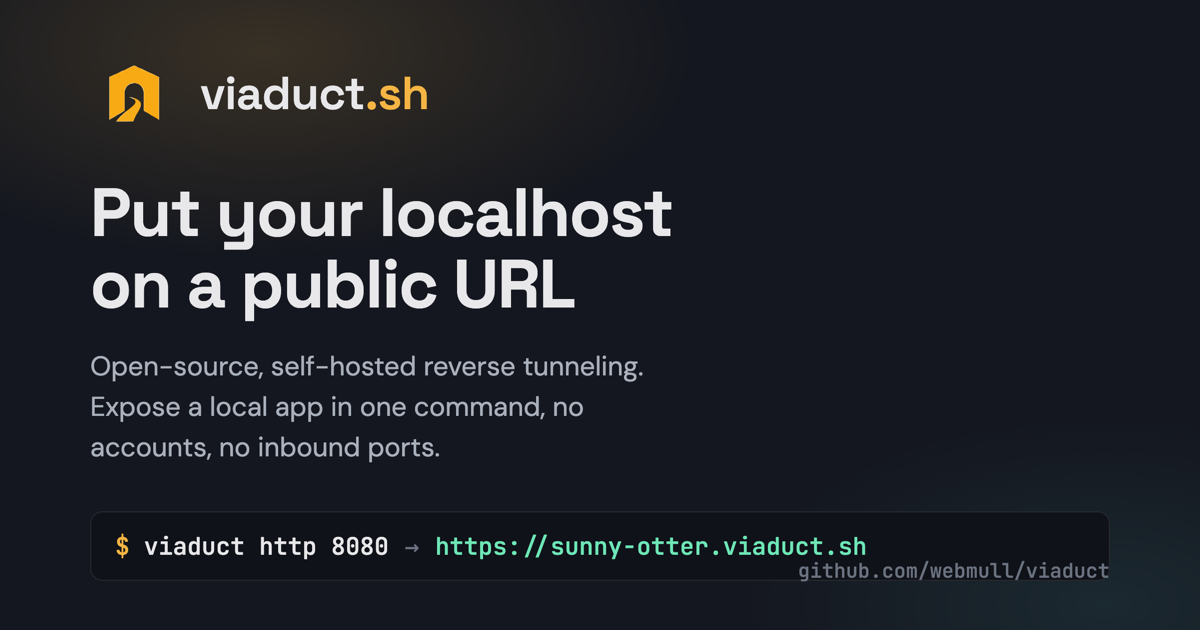
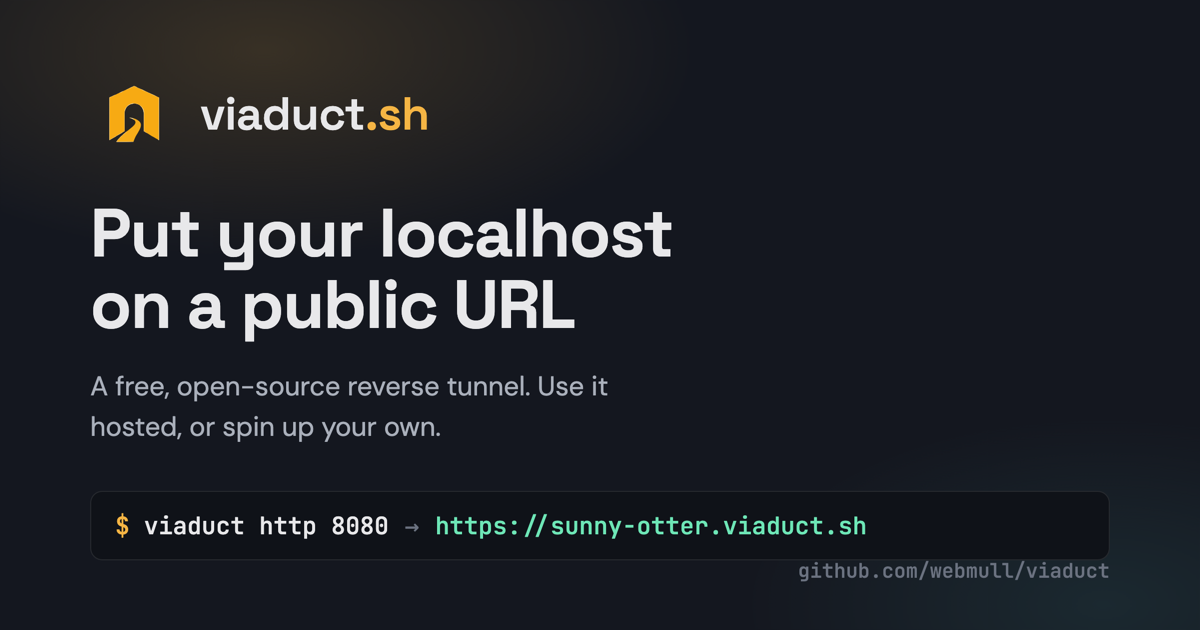
site: clarify the free hosted service + open source + self-host message across hero/install/deploy/open-source/meta and the social card; add a Terms & fair use page (/terms/), linked in footers

diff --git a/site/terms/index.html b/site/terms/index.html
@@ -1,0 +1,119 @@
+<!doctype html>
+<html lang="en">
+<head>
+  <meta charset="utf-8" />
+  <meta name="viewport" content="width=device-width, initial-scale=1" />
+  <link rel="icon" type="image/svg+xml" href="/favicon.svg" />
+  <link rel="mask-icon" href="/favicon.svg" color="#f5b544" />
+  <link rel="apple-touch-icon" href="/apple-touch-icon.png" />
+  <link rel="preconnect" href="https://fonts.googleapis.com" />
+  <link rel="preconnect" href="https://fonts.gstatic.com" crossorigin />
+  <link href="https://fonts.googleapis.com/css2?family=Space+Grotesk:wght@400;500;600;700&family=DM+Sans:wght@400;500;700&family=JetBrains+Mono:wght@400;500;600&display=swap" rel="stylesheet" />
+  <link rel="stylesheet" href="/styles.css" />
+  <title>Terms and fair use: viaduct.sh</title>
+  <meta name="description" content="Fair use terms for the free hosted viaduct.sh service: provided as-is, no guarantees of performance or stability, and no malicious use." />
+</head>
+<body>
+  <header class="site-header">
+    <div class="wrap header-inner">
+      <a class="brand" href="/">
+        <img src="/viaduct-mark.png" alt="" />
+        <span>viaduct<span class="tld">.sh</span></span>
+      </a>
+      <nav class="site-nav">
+        <a class="nav-desktop" href="/#how">How it works</a>
+        <a class="nav-desktop" href="/docs/">Docs</a>
+        <a class="gh-pill" href="https://github.com/webmull/viaduct" target="_blank" rel="noreferrer">
+          <svg viewBox="0 0 24 24" aria-hidden="true"><path d="M12 2C6.477 2 2 6.477 2 12c0 4.419 2.865 8.17 6.839 9.49.5.092.682-.218.682-.486 0-.236-.009-.866-.014-1.7-2.782.605-3.369-1.343-3.369-1.343-.454-1.156-1.11-1.464-1.11-1.464-.908-.62.069-.608.069-.608 1.004.07 1.532 1.03 1.532 1.03.892 1.529 2.341 1.087 2.91.831.092-.646.35-1.086.636-1.337-2.22-.251-4.555-1.111-4.555-4.943 0-1.091.39-1.984 1.03-2.683-.103-.253-.447-1.27.098-2.647 0 0 .84-.269 2.75 1.025A9.578 9.578 0 0 1 12 6.836c.85.004 1.705.115 2.504.337 1.909-1.294 2.747-1.025 2.747-1.025.547 1.377.203 2.394.1 2.647.64.699 1.028 1.592 1.028 2.683 0 3.842-2.339 4.687-4.566 4.935.359.309.678.919.678 1.852 0 1.336-.012 2.415-.012 2.743 0 .267.18.578.688.48C19.138 20.167 22 16.418 22 12c0-5.523-4.477-10-10-10z"/></svg>
+          GitHub
+        </a>
+      </nav>
+    </div>
+  </header>
+
+  <main>
+    <section class="docs-hero">
+      <div class="wrap">
+        <p class="eyebrow">Fair use</p>
+        <h1>Terms and fair use</h1>
+        <p>
+          These terms cover the free, hosted viaduct.sh service. The software
+          itself is open source under the MIT License; if you run your own, the
+          license governs that, not this page. Last updated 2 August 2026.
+        </p>
+      </div>
+    </section>
+
+    <div class="wrap" style="max-width:47rem;padding-bottom:3rem">
+      <section class="doc-section" id="fair-use">
+        <h2>Fair use</h2>
+        <p>
+          viaduct.sh is a free, shared service run in good faith. Please use it
+          reasonably. Do not monopolise capacity, push sustained high-volume or
+          heavy commercial production traffic through it, or otherwise abuse the
+          shared resources that keep it free for everyone. We may rate-limit, cap,
+          or refuse traffic to keep the service healthy.
+        </p>
+      </section>
+
+      <section class="doc-section" id="no-guarantees">
+        <h2>No guarantees</h2>
+        <p>
+          The hosted service is provided as-is and as-available, with no warranty
+          of any kind. Tunnels and connections can be disrupted, throttled, or
+          terminated at any time, with or without notice, for any reason. We make
+          no guarantee of uptime, performance, availability, or stability while you
+          use the platform. Do not rely on it for anything critical, or anything
+          you cannot afford to lose.
+        </p>
+      </section>
+
+      <section class="doc-section" id="acceptable-use">
+        <h2>Acceptable use</h2>
+        <p>
+          The platform must not be used for malicious, illegal, or harmful intent.
+          That includes, without limitation: phishing or impersonation,
+          distributing malware, fraud, attacking or probing systems you do not own,
+          spam, harassment, or anything unlawful. We may act to keep the service
+          safe, and we will terminate any tunnel that violates this, without notice.
+        </p>
+      </section>
+
+      <section class="doc-section" id="run-your-own">
+        <h2>Want guarantees? Run your own</h2>
+        <p>
+          viaduct is completely open source, so if you want full control, no shared
+          limits, and no dependence on our service, you can spin up your own in a
+          few minutes. See the
+          <a href="https://github.com/webmull/viaduct/blob/main/deploy/setup.md" target="_blank" rel="noreferrer">deployment guide</a>.
+          The hosted viaduct.sh is a convenience, not a commitment.
+        </p>
+      </section>
+
+      <section class="doc-section" id="changes">
+        <h2>Changes</h2>
+        <p>
+          These terms may change at any time. Continued use of the hosted service
+          means you accept the current version.
+        </p>
+      </section>
+    </div>
+  </main>
+
+  <footer class="site-footer">
+    <div class="wrap footer-inner">
+      <a href="https://adamdavis.co.uk" target="_blank" rel="noreferrer"
+         style="display:flex;align-items:center;gap:0.6rem;text-decoration:none;color:inherit">
+        <img src="/adam.png" alt="Adam Davis" width="34" height="34" style="border-radius:999px;border:1px solid var(--border-strong)" />
+        <span>Built by <strong style="color:var(--foreground);font-weight:600">Adam Davis</strong></span>
+      </a>
+      <div class="footer-links">
+        <a href="/">Home</a>
+        <a href="/docs/">Docs</a>
+        <a href="/terms/">Fair use</a>
+        <a href="https://github.com/webmull/viaduct/blob/main/LICENSE" target="_blank" rel="noreferrer">MIT License</a>
+      </div>
+    </div>
+  </footer>
+</body>
+</html>

diff --git a/site/index.html b/site/index.html
@@ -11,9 +11,9 @@
   <link href="https://fonts.googleapis.com/css2?family=Space+Grotesk:wght@400;500;600;700&family=DM+Sans:wght@400;500;700&family=JetBrains+Mono:wght@400;500;600&display=swap" rel="stylesheet" />
   <link rel="stylesheet" href="styles.css" />
   <title>viaduct.sh: open-source reverse tunneling for local development</title>
-  <meta name="description" content="viaduct is a small, self-hosted, open-source reverse tunnel in Python. Expose a local port at a public HTTPS URL with one command. No inbound ports, no accounts." />
+  <meta name="description" content="viaduct is a small, open-source reverse tunnel in Python. Give a local port a public HTTPS URL with one command, free on our hosted service or self-hosted on your own. No inbound ports, no accounts." />
   <meta property="og:title" content="viaduct.sh: put your localhost on a public URL" />
-  <meta property="og:description" content="Open-source, self-hosted reverse tunneling. Give a web app on your machine a public HTTPS URL in one command. No accounts, no inbound ports. A small alternative to ngrok you run on your own server." />
+  <meta property="og:description" content="A free, open-source reverse tunnel. Give a web app on your machine a public HTTPS URL in one command, on our hosted service or self-hosted on your own. No accounts, no inbound ports." />
   <meta property="og:type" content="website" />
   <meta property="og:url" content="https://viaduct.sh/" />
   <meta property="og:image" content="https://viaduct.sh/og.png" />
@@ -49,8 +49,8 @@
         <h1>Your localhost, at a public&nbsp;URL</h1>
         <p class="lede">
           Give a web app running on your machine a public HTTPS URL, for demos,
-          webhooks, or sharing work in progress. A small, self-hosted alternative
-          to ngrok you run on your own server.
+          webhooks, or sharing work in progress. Free to use on our hosted
+          service, completely open source, and yours to self-host.
         </p>
         <div class="actions">
           <a class="btn btn-primary" href="https://github.com/webmull/viaduct" target="_blank" rel="noreferrer">
@@ -130,7 +130,7 @@
         <div class="section-head">
           <p class="eyebrow">Open source</p>
           <h2>Built in the open</h2>
-          <p>Around 2,100 lines of Python, two dependencies, MIT licensed. No black box, no accounts. Read it, fork it, send a patch.</p>
+          <p>Completely open source: around 2,100 lines of Python, two dependencies, MIT licensed. The hosted service is free, with no accounts. Read it, fork it, send a patch.</p>
         </div>
         <div class="os-actions">
           <div class="code-block" style="max-width:32rem;width:100%">
@@ -152,10 +152,10 @@
             <p class="eyebrow">Self-hosting</p>
             <h2>Easiest on a DigitalOcean droplet</h2>
             <p>
-              The provisioner is built for DigitalOcean. One Ubuntu droplet and
-              one script sets up Caddy, wildcard TLS, systemd, and the firewall
-              for you. A 1 GB droplet is plenty, and the same script rehearses
-              locally first.
+              viaduct.sh is free and hosted, but the whole thing is yours to run.
+              One Ubuntu droplet and one script sets up Caddy, wildcard TLS,
+              systemd, and the firewall for you. A 1 GB droplet is plenty, and the
+              same script rehearses locally first.
             </p>
             <a class="btn btn-outline" href="https://github.com/webmull/viaduct/blob/main/deploy/setup.md" target="_blank" rel="noreferrer">Deployment guide</a>
           </div>
@@ -183,7 +183,8 @@
             <button class="copy-btn" type="button" data-copy="viaduct http 8080">Copy</button>
           </div>
           <p class="install-note">
-            Full usage, self-hosting, and the design notes live in the
+            That second command uses our free hosted service, no signup. Prefer
+            your own? It is the same tool, self-hosted (below). Full usage lives in the
             <a href="https://github.com/webmull/viaduct#readme" target="_blank" rel="noreferrer">README on GitHub</a>.
           </p>
         </div>
@@ -202,6 +203,7 @@
       <div class="footer-links">
         <a href="https://github.com/webmull/viaduct" target="_blank" rel="noreferrer">GitHub</a>
         <a href="/docs/">Docs</a>
+        <a href="/terms/">Fair use</a>
         <a href="https://github.com/webmull/viaduct/blob/main/LICENSE" target="_blank" rel="noreferrer">MIT License</a>
       </div>
     </div>

diff --git a/site/404.html b/site/404.html
@@ -10,7 +10,7 @@
   <link rel="preconnect" href="https://fonts.gstatic.com" crossorigin />
   <link href="https://fonts.googleapis.com/css2?family=Space+Grotesk:wght@400;500;600;700&family=DM+Sans:wght@400;500;700&family=JetBrains+Mono:wght@400;500;600&display=swap" rel="stylesheet" />
   <link rel="stylesheet" href="/styles.css" />
-  <title>Page not found — viaduct.sh</title>
+  <title>Page not found: viaduct.sh</title>
   <meta name="robots" content="noindex" />
 </head>
 <body>
@@ -57,6 +57,7 @@
         <a href="/">Home</a>
         <a href="https://github.com/webmull/viaduct" target="_blank" rel="noreferrer">GitHub</a>
         <a href="/docs/">Docs</a>
+        <a href="/terms/">Fair use</a>
         <a href="https://github.com/webmull/viaduct/blob/main/LICENSE" target="_blank" rel="noreferrer">MIT License</a>
       </div>
     </div>

diff --git a/site/docs/index.html b/site/docs/index.html
@@ -343,6 +343,7 @@ tls    = true'>Copy</button>
         <a href="/">Home</a>
         <a href="https://github.com/webmull/viaduct" target="_blank" rel="noreferrer">GitHub</a>
         <a href="/docs/">Docs</a>
+        <a href="/terms/">Fair use</a>
         <a href="https://github.com/webmull/viaduct/blob/main/LICENSE" target="_blank" rel="noreferrer">MIT License</a>
       </div>
     </div>
